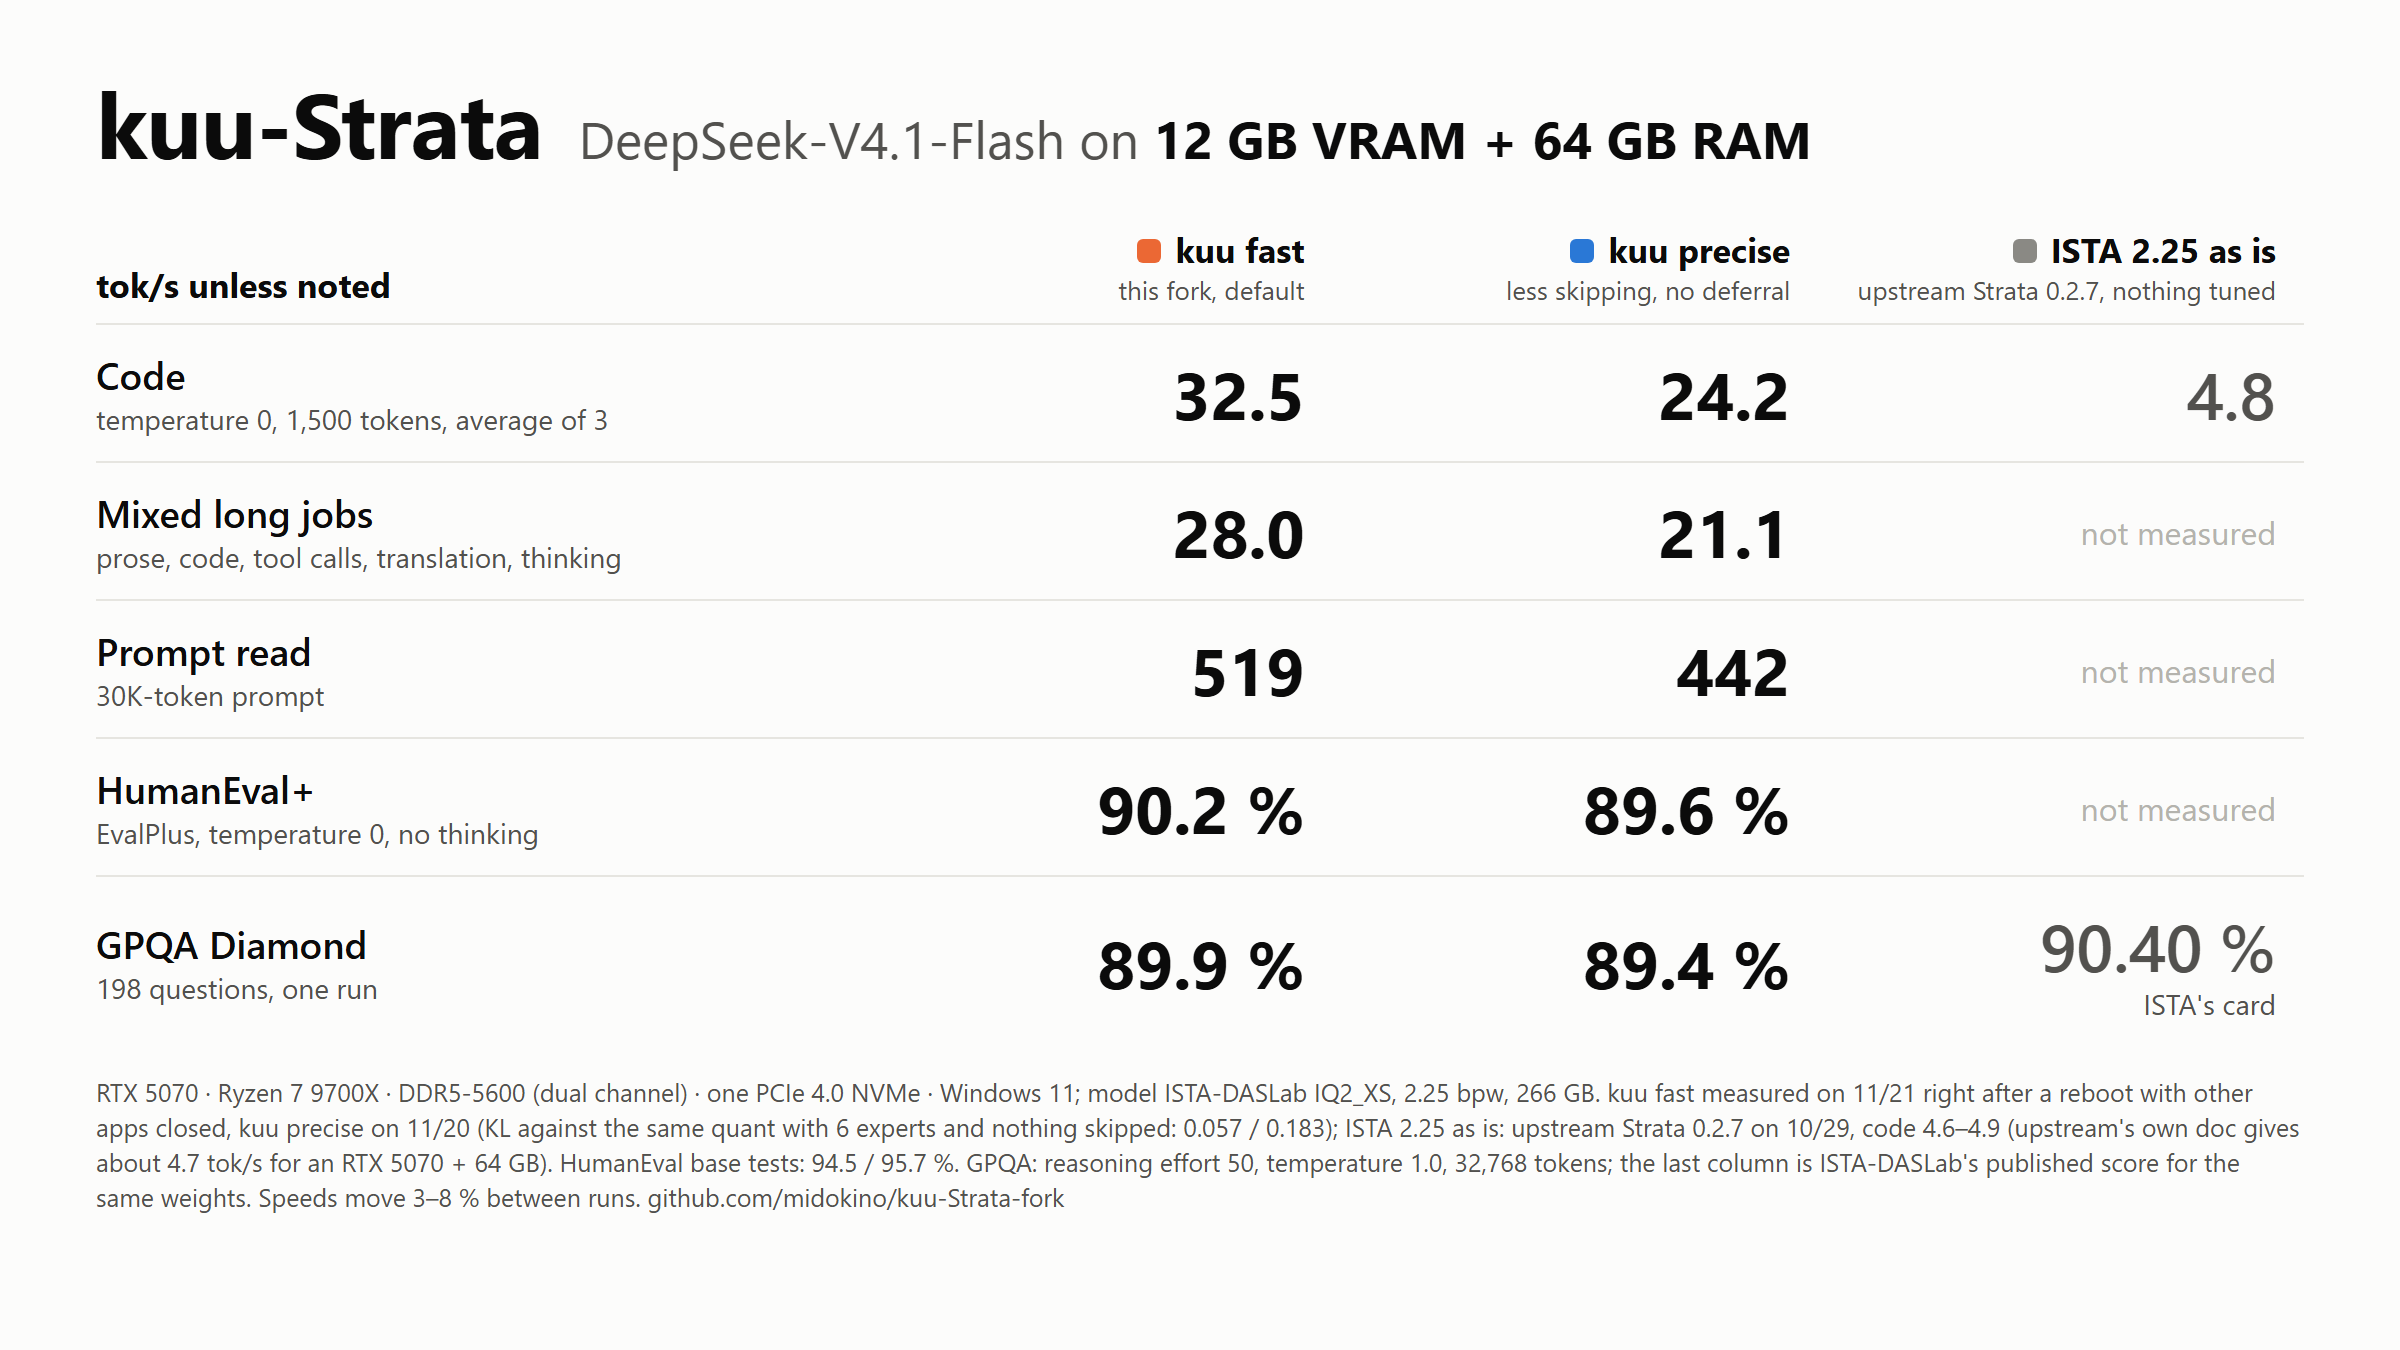
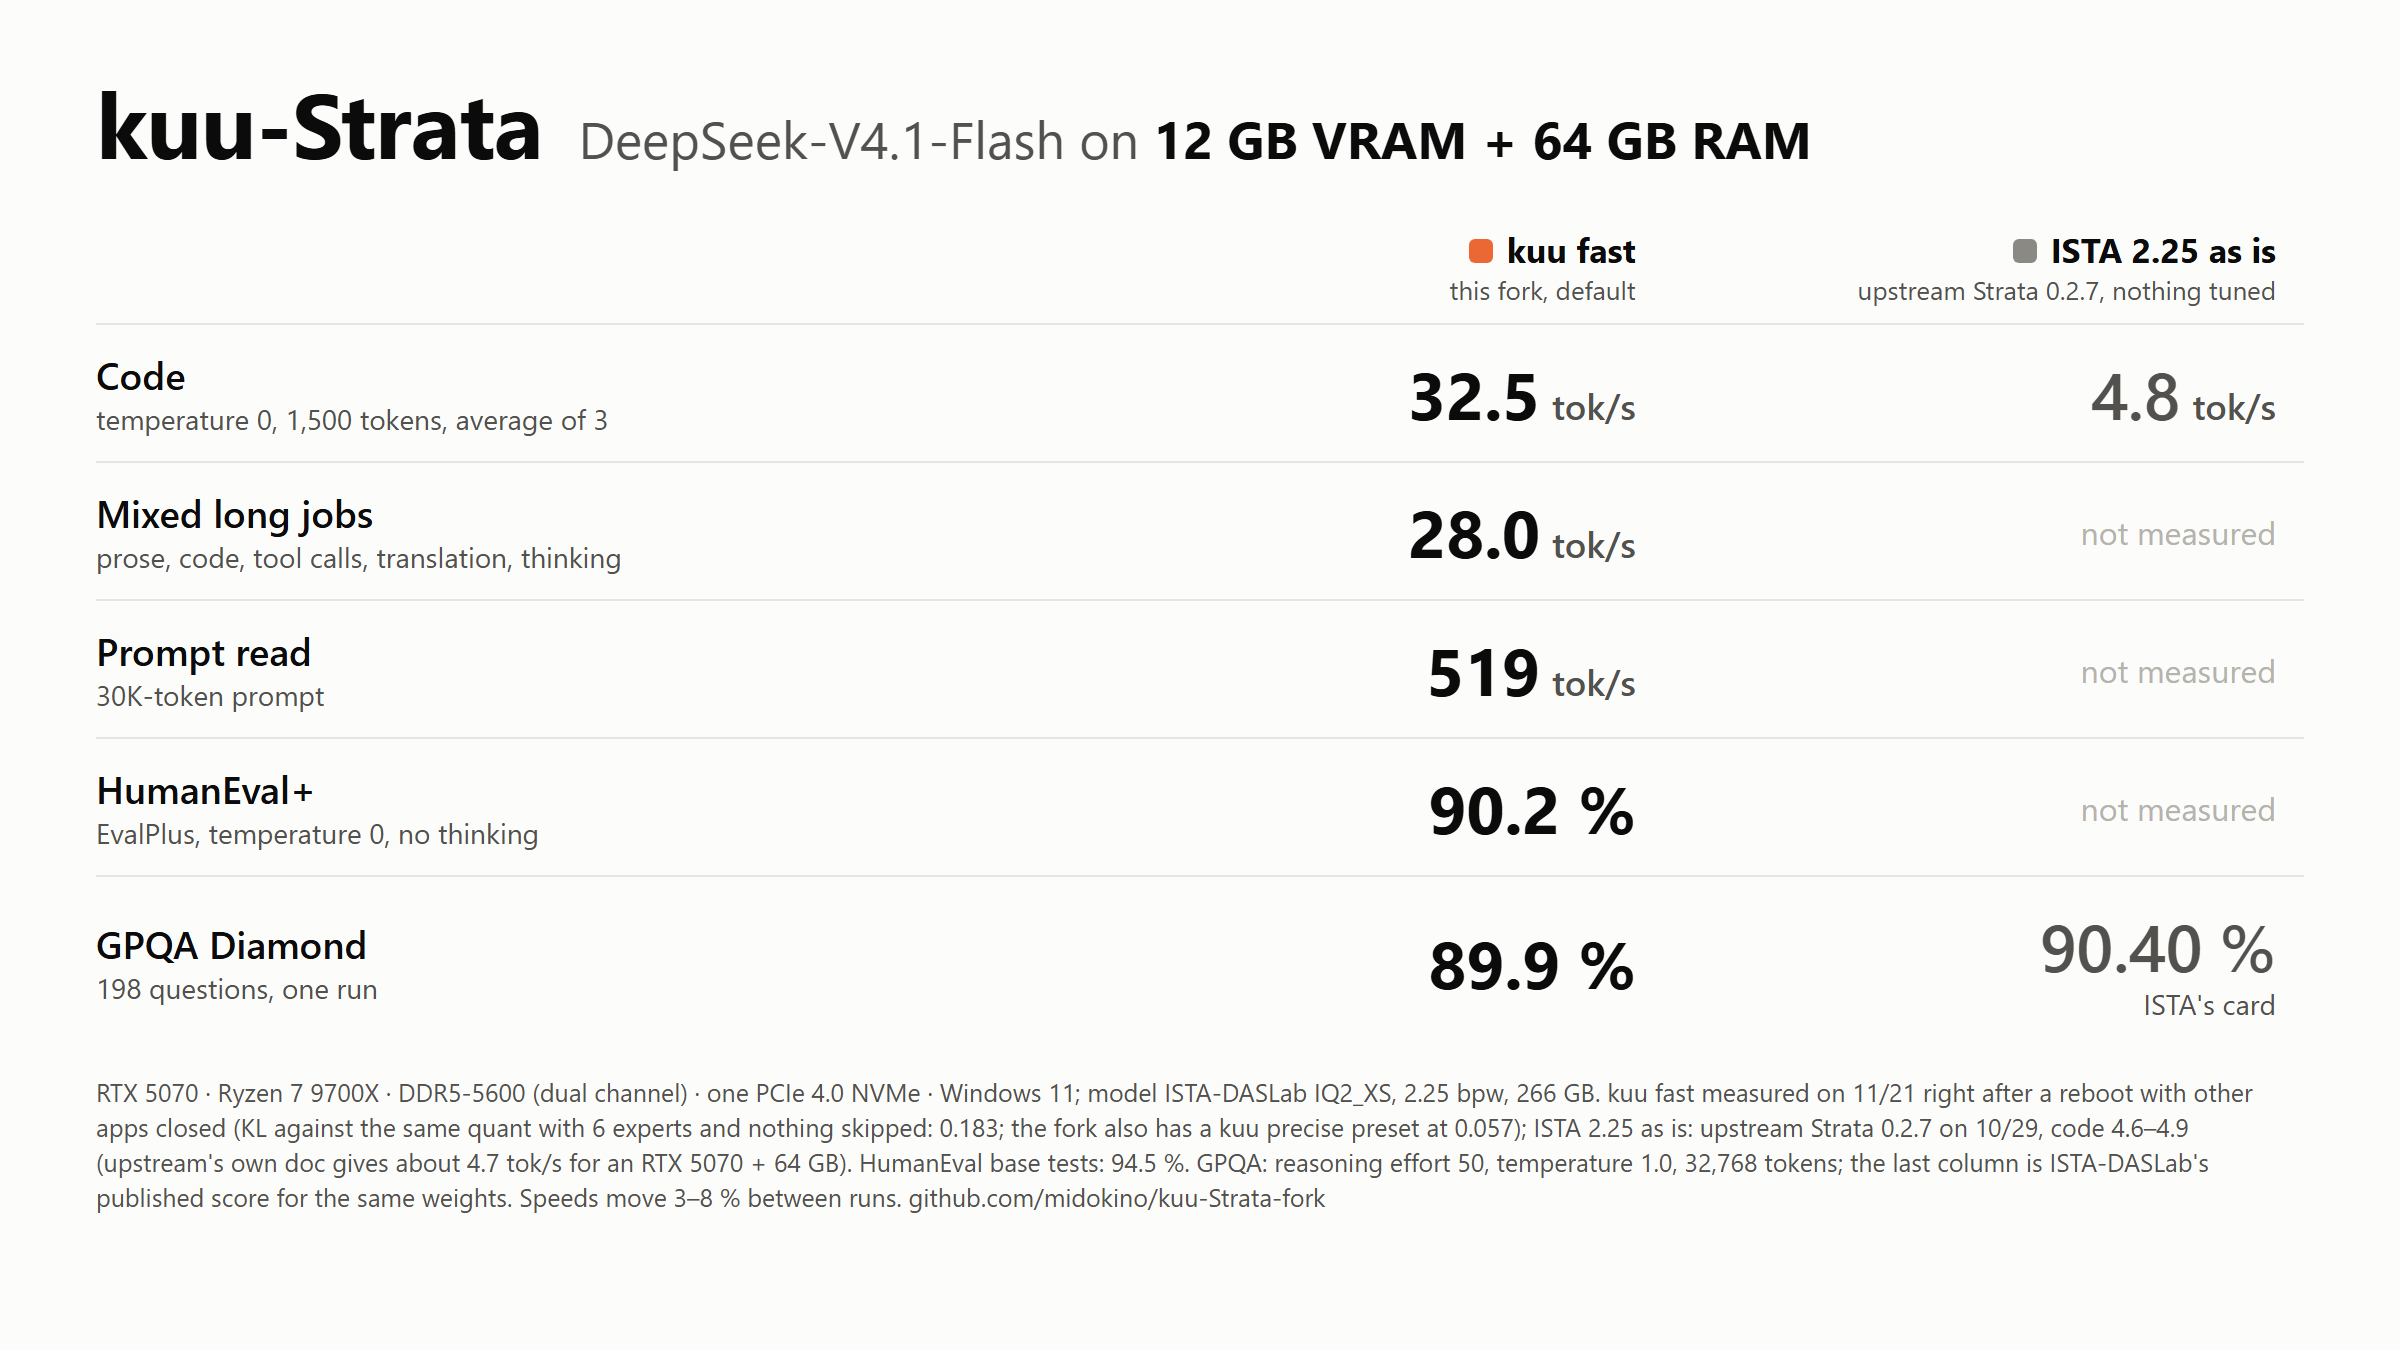
fork: card is kuu fast against ISTA 2.25 as is, with tok/s on each speed
kuu precise stays in the README table and Settings.

diff --git a/docs/img/src/kuu-strata-card.html b/docs/img/src/kuu-strata-card.html
@@ -22,21 +22,20 @@ td:first-child small{display:block;font-size:14px;font-weight:400;color:var(--in
 td.up{color:var(--ink2);font-weight:500}
 td.na{color:#b4b3ad;font-size:16px;font-weight:400}
 td small.n{display:block;font-size:14px;font-weight:400;color:var(--ink2);margin-top:-2px}
-td em{font-style:normal;font-size:14px;font-weight:500;color:var(--ink2);margin-left:4px}
+td em{font-style:normal;font-size:18px;font-weight:600;color:var(--ink2);margin-left:6px}
 .foot{font-size:12.5px;color:var(--ink2);line-height:1.4;margin-top:14px}
 </style></head><body>
 <div class="top"><h1>kuu-Strata</h1><span class="sub">DeepSeek-V4.1-Flash on <b>12 GB VRAM + 64 GB RAM</b></span></div>
 <table>
-<colgroup><col style="width:34%"><col style="width:22%"><col style="width:22%"><col style="width:22%"></colgroup>
-<tr><th>tok/s unless noted</th>
+<colgroup><col style="width:42%"><col style="width:29%"><col style="width:29%"></colgroup>
+<tr><th></th>
  <th><i style="background:var(--fast)"></i>kuu fast<small>this fork, default</small></th>
- <th><i style="background:var(--pre)"></i>kuu precise<small>less skipping, no deferral</small></th>
  <th><i style="background:var(--up)"></i>ISTA 2.25 as is<small>upstream Strata 0.2.7, nothing tuned</small></th></tr>
-<tr><td>Code<small>temperature 0, 1,500 tokens, average of 3</small></td><td>32.5</td><td>24.2</td><td class="up">4.8</td></tr>
-<tr><td>Mixed long jobs<small>prose, code, tool calls, translation, thinking</small></td><td>28.0</td><td>21.1</td><td class="na">not measured</td></tr>
-<tr><td>Prompt read<small>30K-token prompt</small></td><td>519</td><td>442</td><td class="na">not measured</td></tr>
-<tr><td>HumanEval+<small>EvalPlus, temperature 0, no thinking</small></td><td>90.2 %</td><td>89.6 %</td><td class="na">not measured</td></tr>
-<tr><td>GPQA Diamond<small>198 questions, one run</small></td><td>89.9 %</td><td>89.4 %</td><td class="up">90.40 %<small class="n">ISTA's card</small></td></tr>
+<tr><td>Code<small>temperature 0, 1,500 tokens, average of 3</small></td><td>32.5<em>tok/s</em></td><td class="up">4.8<em>tok/s</em></td></tr>
+<tr><td>Mixed long jobs<small>prose, code, tool calls, translation, thinking</small></td><td>28.0<em>tok/s</em></td><td class="na">not measured</td></tr>
+<tr><td>Prompt read<small>30K-token prompt</small></td><td>519<em>tok/s</em></td><td class="na">not measured</td></tr>
+<tr><td>HumanEval+<small>EvalPlus, temperature 0, no thinking</small></td><td>90.2 %</td><td class="na">not measured</td></tr>
+<tr><td>GPQA Diamond<small>198 questions, one run</small></td><td>89.9 %</td><td class="up">90.40 %<small class="n">ISTA's card</small></td></tr>
 </table>
-<div class="foot">RTX 5070 · Ryzen 7 9700X · DDR5-5600 (dual channel) · one PCIe 4.0 NVMe · Windows 11; model ISTA-DASLab IQ2_XS, 2.25 bpw, 266 GB. kuu fast measured on 11/21 right after a reboot with other apps closed, kuu precise on 11/20 (KL against the same quant with 6 experts and nothing skipped: 0.057 / 0.183); ISTA 2.25 as is: upstream Strata 0.2.7 on 10/29, code 4.6–4.9 (upstream's own doc gives about 4.7 tok/s for an RTX 5070 + 64 GB). HumanEval base tests: 94.5 / 95.7 %. GPQA: reasoning effort 50, temperature 1.0, 32,768 tokens; the last column is ISTA-DASLab's published score for the same weights. Speeds move 3–8 % between runs. <span style="white-space:nowrap">github.com/midokino/kuu-Strata-fork</span></div>
+<div class="foot">RTX 5070 · Ryzen 7 9700X · DDR5-5600 (dual channel) · one PCIe 4.0 NVMe · Windows 11; model ISTA-DASLab IQ2_XS, 2.25 bpw, 266 GB. kuu fast measured on 11/21 right after a reboot with other apps closed (KL against the same quant with 6 experts and nothing skipped: 0.183; the fork also has a kuu precise preset at 0.057); ISTA 2.25 as is: upstream Strata 0.2.7 on 10/29, code 4.6–4.9 (upstream's own doc gives about 4.7 tok/s for an RTX 5070 + 64 GB). HumanEval base tests: 94.5 %. GPQA: reasoning effort 50, temperature 1.0, 32,768 tokens; the last column is ISTA-DASLab's published score for the same weights. Speeds move 3–8 % between runs. <span style="white-space:nowrap">github.com/midokino/kuu-Strata-fork</span></div>
 </body></html>

diff --git a/README.md b/README.md
@@ -2,7 +2,7 @@
 
 **DeepSeek-V4.1-Flash on one 12 GB GPU — an unofficial Strata fork**
 
-![kuu-Strata: kuu fast, kuu precise and ISTA's 2.25 bpw quant as is - code, mixed long jobs, 30K prompt read, GPQA Diamond](docs/img/kuu-strata-card.png)
+![kuu-Strata: kuu fast against ISTA's 2.25 bpw quant as is - code, mixed long jobs, 30K prompt read, GPQA Diamond](docs/img/kuu-strata-card.png)
 
 kuu-Strata is an unofficial fork of [Strata](https://github.com/Niko1221/Strata) **v0.2.12** that keeps the DeepSeek-V4.1-Flash engine
 (`src/dsv41`, `strata-dsv41.exe`) and tunes it for **one 12 GB GPU and 64 GB of RAM**. Upstream removed DeepSeek in
